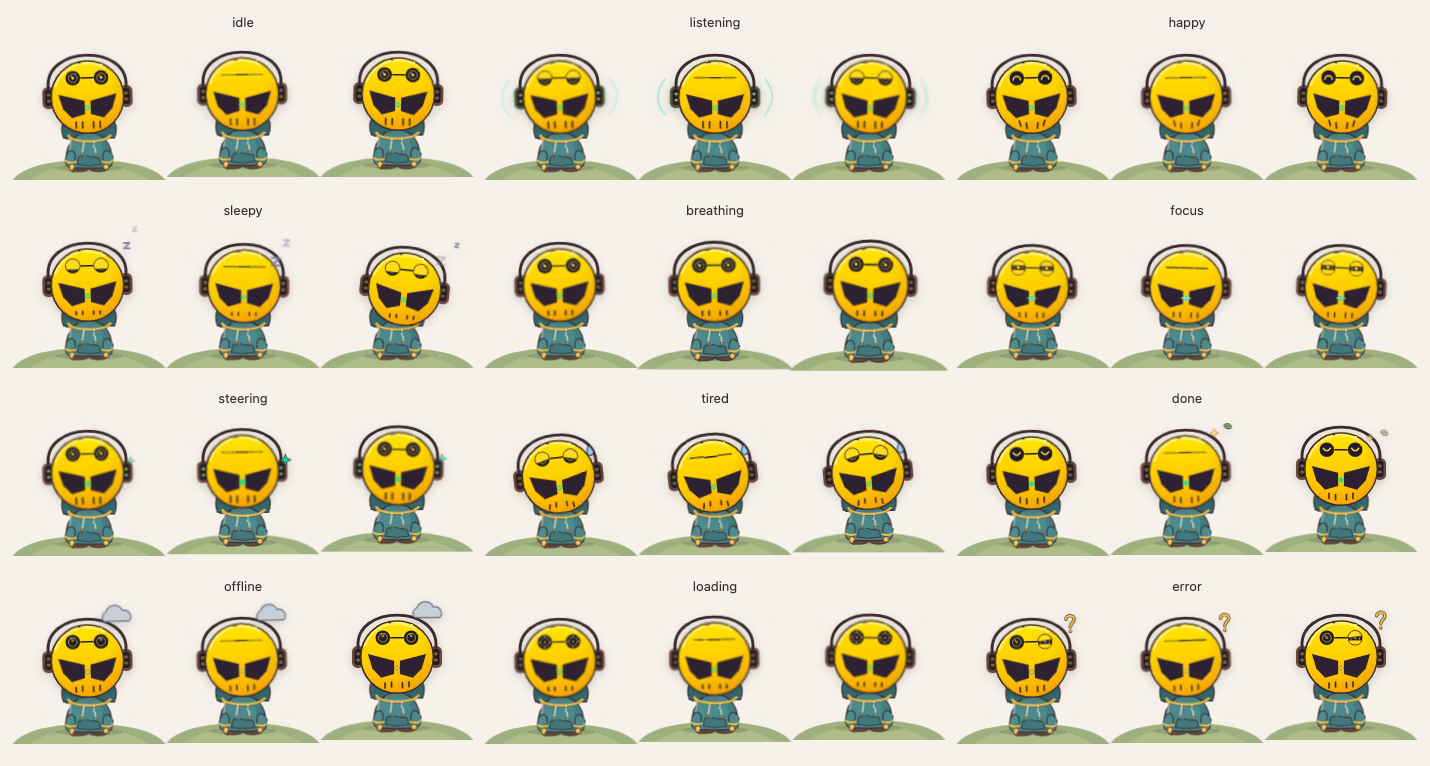
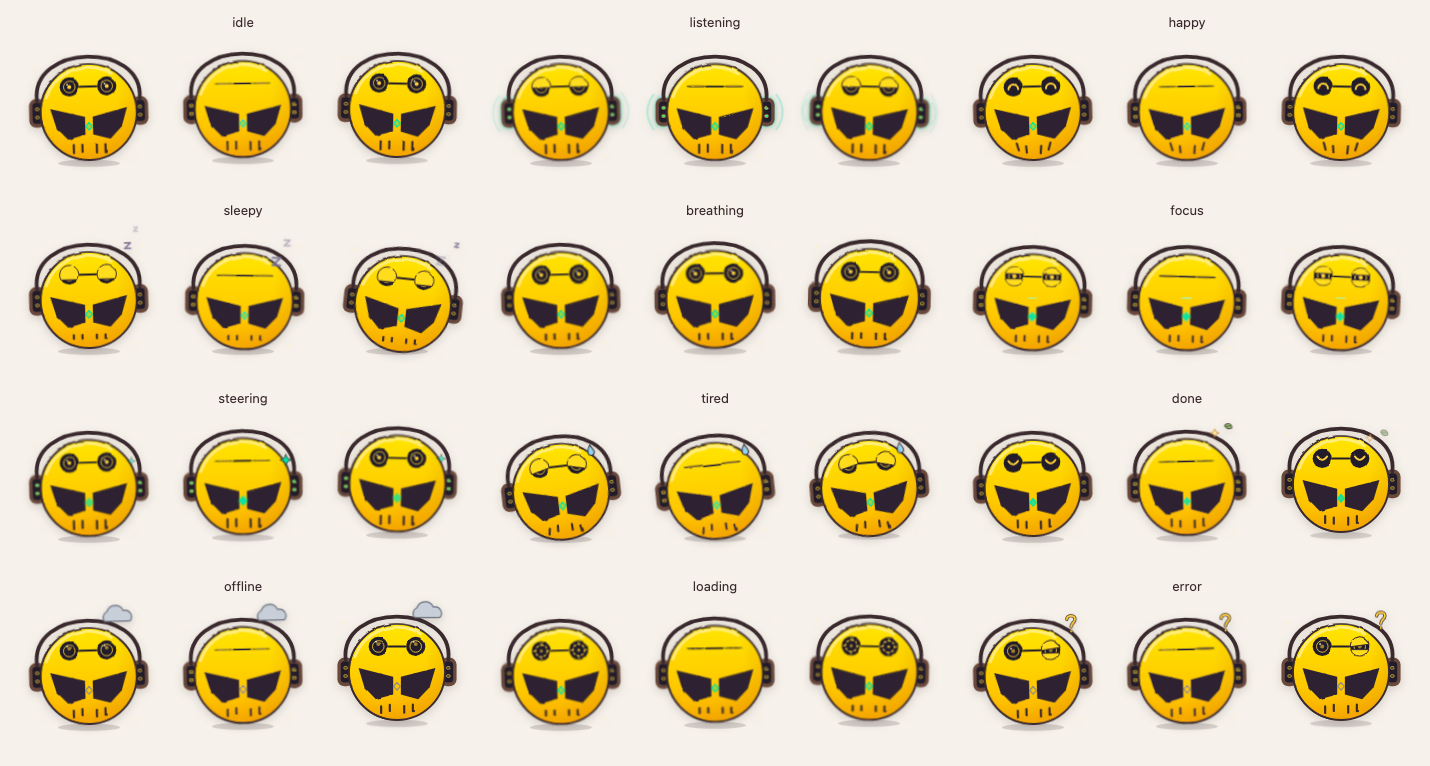
feat(mascot): head only in every situation, breath on the head, ground shadow

diff --git a/web/src/ui/calm/mascot/mascot.css b/web/src/ui/calm/mascot/mascot.css
@@ -1,18 +1,17 @@
 .cm-stage{position:relative;perspective:700px;display:inline-block;--rx:0deg;--ry:0deg;--bp:0;--lv:0;--sw:9s;--eye:1;font-family:system-ui,sans-serif}
 .cm-defs{position:absolute;width:0;height:0}
 .cm-body{position:absolute;inset:0;transform-style:preserve-3d}
-.cm-sway{position:absolute;inset:0;transform-style:preserve-3d;translate:0 calc(var(--bp) * -5px);transform-origin:50% 80%;animation:cm-sway var(--sw) ease-in-out infinite}
+.cm-sway{position:absolute;inset:0;transform-style:preserve-3d;transform-origin:50% 60%;transition:scale .3s linear,translate .3s linear;animation:cm-sway var(--sw) ease-in-out infinite}
 .cm-head{position:absolute;inset:0;transform-style:preserve-3d;transform:rotateX(var(--rx)) rotateY(var(--ry));transition:transform .25s ease-out,translate .8s ease,rotate .8s ease;filter:drop-shadow(0 3px 5px rgba(58,42,46,.18))}
 .cm-layer{position:absolute;inset:0;width:100%;height:100%;overflow:visible}
 .cm-shadow{transform:translateZ(-40px)}
-.cm-bodyl{transform:translateZ(-24px)}
 .cm-ripples{transform:translateZ(-18px);pointer-events:none}
 .cm-face{transform:translateZ(0)}
 .cm-band{transform:translateZ(26px)}
 .cm-motes{transform:translateZ(46px);pointer-events:none}
-.cm-chest{transform-box:fill-box;transform-origin:50% 100%;transform:translateY(calc(var(--bp) * -10px)) scale(calc(1 + var(--bp) * .045))}
+.cm-gshadow{transform-box:fill-box;transform-origin:center;transform:scaleX(calc(1 - var(--bp) * .08))}
 .cm-compact{overflow:hidden}
-.cm-compact .cm-body{scale:1.552;translate:0 12.4%}
+.cm-compact .cm-body{scale:1.1;translate:0 1.5%}
 .cm-compact .cm-head{filter:none}
 .cm-compact .cm-shade,.cm-compact .cm-rim{display:none}
 
@@ -84,22 +83,20 @@
 .cm-paused,.cm-paused *{animation-play-state:paused!important}
 
 /* paint, dark and contrast variants */
-[data-theme='dark'] .cm-hill-a{fill:#3C4A4F}
-[data-theme='dark'] .cm-hill-b{fill:#4A5A5C}
+[data-theme='dark'] .cm-gshadow{fill:#000;opacity:.4}
 [data-theme='dark'] .cm-bandink{stroke:#8A7480}
 [data-theme='dark'] .cm-pk{stroke:#CCD6FF}
 [data-contrast='high'] .cm-s-ink{stroke:#000}
 [data-theme='dark'][data-contrast='high'] .cm-s-ink{stroke:#fff}
 [data-theme='dark'][data-contrast='high'] .cm-bandink{stroke:#fff}
 @media (forced-colors:active){
-  .cm-hill-a,.cm-hill-b,.cm-shade,.cm-rim,.cm-motes,.cm-ripples,.cm-props{display:none}
+  .cm-shadow,.cm-shade,.cm-rim,.cm-motes,.cm-ripples,.cm-props{display:none}
   .cm-f-gold,.cm-f-cup,.cm-slit,.cm-pupil{fill:Canvas}
   .cm-f-mask,.cm-bar{fill:CanvasText}
   .cm-bar{stroke:CanvasText}
   .cm-s-ink,.cm-bandink{stroke:CanvasText}
   .cm-s-gold,.cm-ring,.cm-slit{stroke:Canvas}
   .cm-gem{fill:Canvas;stroke:Highlight}
-  .cm-bodyl *{fill:Canvas;stroke:CanvasText}
   .cm-head{filter:none}
 }
 
@@ -109,7 +106,7 @@
 @keyframes cm-drift{0%,100%{transform:translate(0,0);opacity:.3}50%{transform:translate(6px,-14px);opacity:.9}}
 @keyframes cm-gem{0%,100%{opacity:.7}50%{opacity:1}}
 @keyframes cm-zee{0%{opacity:0;transform:translate(0,12px)}30%{opacity:.9}100%{opacity:0;transform:translate(10px,-26px)}}
-@keyframes cm-breathe{0%,100%{transform:scale(1)}40%{transform:scale(1.04)}}
+@keyframes cm-breathe{0%,100%{transform:scale(1) translateY(0)}40%{transform:scale(1.03) translateY(-1.2%)}}
 @keyframes cm-sway{0%,100%{rotate:-1.6deg}50%{rotate:1.6deg}}
 @keyframes cm-rip{0%{opacity:0;transform:scale(.7)}30%{opacity:calc(var(--lv) * .7)}100%{opacity:0;transform:scale(1.7)}}
 @keyframes cm-spin{to{transform:rotate(360deg)}}

diff --git a/web/src/ui/calm/mascot/CalmMascot.test.tsx b/web/src/ui/calm/mascot/CalmMascot.test.tsx
@@ -59,14 +59,27 @@ describe('CalmMascot', () => {
     }
   });
 
-  it('draws the head only at small sizes and the body and hill at large sizes', () => {
-    const small = render(<CalmMascot size={40} />);
-    expect(small.container.querySelector('.cm-bodyl')).toBeNull();
-    expect(small.container.querySelector('.cm-compact')).not.toBeNull();
-    small.unmount();
-    const big = render(<CalmMascot size={120} />);
-    expect(big.container.querySelector('.cm-bodyl')).not.toBeNull();
-    expect(big.container.querySelector('.cm-compact')).toBeNull();
+  it('draws the head only: no body, hoodie, arms, feet or hill at any size or mood', () => {
+    for (const size of SIZES) for (const mood of MOODS) {
+      const { container, unmount } = render(<CalmMascot size={size} mood={mood} />);
+      for (const c of ['cm-bodyl', 'cm-hood', 'cm-trim', 'cm-pocket', 'cm-cord', 'cm-chest', 'cm-hill-a', 'cm-hill-b']) expect(container.querySelector(`.${c}`)).toBeNull();
+      expect(container.querySelector('.cm-compact') !== null).toBe(size <= 96);
+      expect(container.querySelector('.cm-gshadow') !== null).toBe(size > 96);
+      unmount();
+    }
+    expect(css).not.toMatch(/hill|chest|bodyl/);
+  });
+
+  it('breathes on the head: scale about 3 percent and a lift follow breathPhase', () => {
+    const inhale = render(<CalmMascot mood="breathing" breathPhase={1} reducedMotion={false} />);
+    const sway = inhale.container.querySelector<HTMLElement>('.cm-sway');
+    expect(Number(sway?.style.scale)).toBeCloseTo(1.03, 3);
+    expect(sway?.style.translate).toMatch(/^0px? -1\.2\d*%$|^0 -1\.20%$/);
+    inhale.rerender(<CalmMascot mood="breathing" breathPhase={0} reducedMotion={false} />);
+    expect(Number(sway?.style.scale)).toBe(1);
+    inhale.unmount();
+    const still = render(<CalmMascot mood="breathing" breathPhase={1} reducedMotion />);
+    expect(still.container.querySelector<HTMLElement>('.cm-sway')?.style.scale).toBe('');
   });
 
   it('keeps the original parts: ring eyes, two plates, four slits, two ear pods, gem', () => {
@@ -125,12 +138,6 @@ describe('CalmMascot', () => {
     a.unmount();
     const b = render(<CalmMascot mood="idle" size={72} reducedMotion />);
     expect(b.container.querySelector('.cm-props')).toBeNull();
-  });
-
-  it('draws the hoodie: hood, trim, two cords and a pocket', () => {
-    const { container } = render(<CalmMascot size={200} reducedMotion />);
-    for (const c of ['cm-hood', 'cm-trim', 'cm-pocket']) expect(container.querySelectorAll(`.${c}`)).toHaveLength(1);
-    expect(container.querySelector('.cm-cord')?.getAttribute('d')?.split('M')).toHaveLength(3);
   });
 
   it('blinks on a seeded 4 to 7 s timer and clears it on unmount', () => {

diff --git a/web/src/ui/calm/mascot/CalmMascot.tsx b/web/src/ui/calm/mascot/CalmMascot.tsx
@@ -1,7 +1,6 @@
 import { useId, useRef, type CSSProperties, type JSX } from 'react';
 import './mascot.css';
 import { Defs, HeadLayer, MotesLayer, ShadowLayer } from './layers';
-import { BodyLayer } from './hoodie';
 import { BandLayer, RippleLayer } from './layersExtra';
 import { PropLayer } from './props';
 import type { CalmMascotProps } from './types';
@@ -26,6 +25,8 @@ export function CalmMascot({ mood = 'idle', size = 220, reducedMotion, label = '
   const still = reducedMotion ?? prefersReduced();
   const px = Number.isFinite(size) ? Math.max(24, Math.min(640, size)) : 220;
   const compact = px <= COMPACT_MAX;
+  // The head breathes: about 3 percent larger and a little higher on inhale. Still under reduced motion.
+  const lift: CSSProperties | undefined = breathPhase !== undefined && !still ? { scale: String(1 + unit(breathPhase) * 0.03), translate: `0 ${(-unit(breathPhase) * 1.2).toFixed(2)}%` } : undefined;
   useParallax(stage, !still && !compact);
   useLife(stage, mood, still);
   return (
@@ -41,8 +42,7 @@ export function CalmMascot({ mood = 'idle', size = 220, reducedMotion, label = '
       <Defs id={id} />
       <div className="cm-body">
         {!compact && <ShadowLayer />}
-        {!compact && <BodyLayer id={id} />}
-        <div className="cm-sway">
+        <div className="cm-sway" style={lift}>
           <div className="cm-head">
             {!compact && <RippleLayer marked={mood === 'listening'} />}
             <HeadLayer id={id} mood={mood} plain={compact} />

diff --git a/web/src/ui/calm/mascot/layers.tsx b/web/src/ui/calm/mascot/layers.tsx
@@ -2,9 +2,9 @@ import type { JSX } from 'react';
 import { Eye, EYES } from './eyes';
 import type { MascotMood } from './types';
 
-/** Canvas of the whole drawing. The head uses the 2018 logo coordinates (circle r200 at 256,256) under HEAD_T. */
+/** Canvas of the whole drawing. The head uses the 2018 logo coordinates (circle r200 at 256,256) under HEAD_T, which fills the box. */
 export const VB_FULL = '0 0 512 512';
-export const HEAD_T = 'translate(97.3 56.3) scale(.62)';
+export const HEAD_T = 'translate(46.1 56.1) scale(.82)';
 
 interface IdProps {
   readonly id: string;
@@ -30,13 +30,11 @@ const MOUTH: Readonly<Record<MascotMood, MouthShape>> = {
   loading: { dy: [0, 0, 0, 0], len: 0.6 },
 };
 
-/** The hill the character sits on. Soft edge, no outline. */
+/** A soft round shadow under the head. It shrinks a little when the head lifts on inhale. */
 export function ShadowLayer(): JSX.Element {
   return (
     <svg className="cm-layer cm-shadow" viewBox={VB_FULL} aria-hidden="true" focusable="false">
-      <path className="cm-hill-a" d="M-20 512C20 462 120 440 256 440C392 440 492 462 532 512Z" fill="#9DB07E" />
-      <path className="cm-hill-b" d="M40 512C90 474 170 458 256 458C342 458 422 474 472 512Z" fill="#B3C28F" opacity="0.7" />
-      <ellipse cx="256" cy="470" rx="120" ry="12" fill="#4F5F3C" opacity="0.28" />
+      <ellipse className="cm-gshadow" cx="256" cy="452" rx="112" ry="13" fill="#4A3A40" opacity="0.2" />
     </svg>
   );
 }

diff --git a/web/src/ui/calm/mascot/layersExtra.tsx b/web/src/ui/calm/mascot/layersExtra.tsx
@@ -23,7 +23,7 @@ export function RippleLayer({ marked = false }: { readonly marked?: boolean }): 
       key={`${cx}-${k}`}
       className="cm-ripple"
       style={{ animationDelay: `${k * -1.6}s` }}
-      d={`M${cx + dir * 14} 170Q${cx + dir * 50} 215 ${cx + dir * 14} 260`}
+      d={`M${cx + dir * 12} 222Q${cx + dir * 44} 266 ${cx + dir * 12} 310`}
       fill="none"
       stroke="#8FE3D0"
       strokeWidth="5"
@@ -32,8 +32,8 @@ export function RippleLayer({ marked = false }: { readonly marked?: boolean }): 
   );
   return (
     <svg className="cm-layer cm-ripples" data-prop={marked ? 'ripples' : undefined} viewBox={VB} aria-hidden="true" focusable="false">
-      {[0, 1, 2].map((k) => ring(96, -1, k))}
-      {[0, 1, 2].map((k) => ring(416, 1, k))}
+      {[0, 1, 2].map((k) => ring(56, -1, k))}
+      {[0, 1, 2].map((k) => ring(456, 1, k))}
     </svg>
   );
 }

diff --git a/web/src/ui/calm/mascot/props.tsx b/web/src/ui/calm/mascot/props.tsx
@@ -14,7 +14,7 @@ const PROPS: Partial<Record<MascotMood, () => JSX.Element>> = {
     </g>
   ),
   breathing: () => (
-    <path className="cm-wisp" d="M306 336q14-12 28 0t28 0t28 0" fill="none" stroke="#BFE9E3" strokeWidth="5" strokeLinecap="round" />
+    <path className="cm-wisp" d="M326 396q12-10 24 0t24 0t24 0" fill="none" stroke="#BFE9E3" strokeWidth="5" strokeLinecap="round" />
   ),
   focus: () => <path className="cm-glow" d="M241 252h30" fill="none" stroke="#9CFFE3" strokeWidth="4" strokeLinecap="round" />,
   steering: () => (

diff --git a/docs/MASCOT.md b/docs/MASCOT.md
@@ -6,6 +6,10 @@ Source of truth for the look of the mascot. The drawing is `web/src/ui/calm/masc
 
 Left: the 2018 logo as committed at 96d55ca. Middle: the new mascot at hero size. Right: the new `logo.svg`, favicon, apple touch icon and maskable icon.
 
+## Head only rule
+
+The owner asked to keep only the head in every situation. Never add a body, clothes, limbs or a seat back. Breath moves the head itself. The head fills the box (transform `translate(46.1 56.1) scale(.82)` on the 2018 coordinates), and props sit around it inside the box.
+
 ## Identity rules (never change)
 
 All numbers are in the 512 unit space of the 2018 `logo.svg`.
@@ -30,7 +34,7 @@ All numbers are in the 512 unit space of the 2018 `logo.svg`.
 | Soft watercolor fill | The gold gradient, a warm radial shade at the lower right, and a pale rim light arc at the top left. |
 | Dark mask colour | Warm plum `#2F2430` with rounded line joins, instead of the 2018 near black with neon. |
 | Headphones | A band over the head that ends in a brown cup around each ear pod. The pod is the inner part of the cup, so nothing is drawn twice. |
-| Body | A seated figure in a soft deep-teal hoodie on a green hill, shown from 120 px up. Hood behind the head, gold trim on neck and cuffs, two cream drawstrings, a chest pocket. The headphone band stays over it. |
+| Head only | The mascot is the head, the headphones and the mood prop. No body, hoodie, arms, feet or hill, at every size and mood. A soft round shadow sits under the head. |
 | 3D | Layers at different depth. The head tilts up to 8 degrees toward the pointer. |
 
 Not allowed: changing the plate shapes, the number of slits, the eye rings, the head shape or the gold. No new characters, no faces with curved mouths.
@@ -45,7 +49,7 @@ Props: `mood`, `size`, `reducedMotion`, `label`, `breathPhase`, `level`, `situat
 | listening | sound plays | half | ripples | straight | head sway 6 s, ripples follow `level` |
 | happy | success | arc (upturned) | none | smile, outer slits tilt out | one small bounce |
 | sleepy | sleep timer | lid (low) | zzz | short | slow drooping nod 7 s, letters drift up |
-| breathing | player | ring, closes on exhale | wisp | follow `breathPhase` | chest and hoodie rise with `breathPhase` |
+| breathing | player | ring, closes on exhale | wisp | follow `breathPhase` | the head scales about 3 percent and lifts on inhale, eyes close on exhale |
 | focus | focus journeys | narrow | glow (line on gem) | short | forward lean, no blink |
 | steering | crew steers the sound | ring | spark (near ear pod) | straight | gem pulse once per 3 s |
 | tired | burned out step | heavy (tilted lid) | sweat | frown | head drops, blink every 6 to 11 s |
@@ -64,17 +68,17 @@ Rules: every loop is 1 second or slower, so no flash exceeds 3 per second. Blink
 |---|---|
 | 24 (nav), 40 | Head, pods and band only, cropped. No paint filter, no shade. Thicker lines. |
 | 72 (headers) | Same as 40. |
-| 120 (onboarding) | Full figure with hill. |
-| 190 and up (player scene) | Full figure, motes, ripples, paint filter. |
+| 120 (onboarding) | Head with headphones, ground shadow. |
+| 190 and up (player scene) | Head, ground shadow, motes, ripples, paint filter. |
 
 ## Themes
 
 | Variant | Switch |
 |---|---|
 | Light | default |
-| Dark | `[data-theme='dark']` ancestor: darker hill, lighter band line |
+| Dark | `[data-theme='dark']` ancestor: darker ground shadow, lighter band line |
 | High contrast | `[data-contrast='high']` ancestor: black or white ink |
-| Forced colors | `@media (forced-colors: active)`: Canvas and CanvasText only, no hill or glow |
+| Forced colors | `@media (forced-colors: active)`: Canvas and CanvasText only, no shadow or glow |
 
 ## Icons
 
@@ -99,5 +103,5 @@ Honest view after looking at the shots:
 - The parts match the original one to one: ring eyes joined by a bar, two angular plates, teal gem in the gap, four slits, side pods. A person who knows the 2018 logo should see it at once, mostly from the plates and the gem.
 - It is not the same picture. The original is a neon outline on black. The new one is a filled gold head with dark plates. The plates are large and dark, so at rest the face can still read as stern. I softened the colour and corners but kept the silhouette, as the rules require.
 - Moods differ mainly by eyes, slits and pose. At 24 px only happy, sleepy, tired and the plain faces can be told apart. Glow moods (steering, listening) are clear only from 72 px.
-- The body is a plain blue-grey figure and is the weakest part. It has no link to the original.
+- The body was removed. Only the head stays, in every situation.
 - Not checked: real devices, a screen reader pass, forced-colors in a real browser (rules were written, not seen), motion at real speed.
